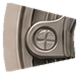
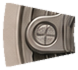
9 o'clock: vanish line to 192 deg, under the arm — no top shadow visible

diff --git a/index.html b/index.html
@@ -278,7 +278,7 @@
               <img class="cb-rig-static" src="/assets/caseback/rig/static-support-top.webp" style="left:55.502%;top:55.901%;width:3.828%;height:5.104%" alt="" decoding="async">
               <img class="cb-rig-static" src="/assets/caseback/rig/static-support-toptab.webp" style="left:54.147%;top:58.692%;width:2.313%;height:2.711%" alt="" decoding="async">
               <img class="cb-rig-static" src="/assets/caseback/rig/static-sec-eleven.webp" style="left:45.694%;top:56.619%;width:6.140%;height:6.140%" alt="" decoding="async">
-              <img class="cb-rig-static" src="/assets/caseback/rig/static-sec-nine.webp" style="left:42.105%;top:64.593%;width:6.300%;height:5.981%" alt="" decoding="async">
+              <img class="cb-rig-static" src="/assets/caseback/rig/static-sec-nine.webp" style="left:42.105%;top:64.992%;width:6.220%;height:5.582%" alt="" decoding="async">
               <img class="cb-rig-static" src="/assets/caseback/rig/static-support-bottom.webp" style="left:55.423%;top:72.807%;width:2.472%;height:5.183%" alt="" decoding="async">
               <img class="cb-rig-static" src="/assets/caseback/rig/static-support-bl-pad.webp" style="left:47.767%;top:72.488%;width:5.343%;height:6.380%" alt="" decoding="async">
               <img class="cb-rig-static" src="/assets/caseback/rig/static-support-bl-arm.webp" style="left:50.239%;top:71.531%;width:3.190%;height:3.429%" alt="" decoding="async">
